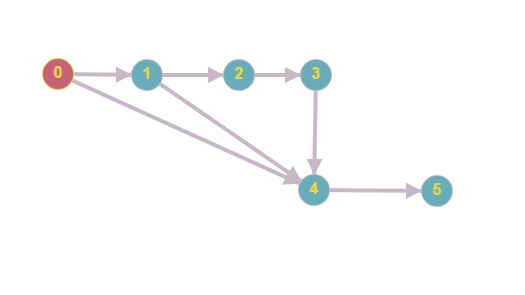
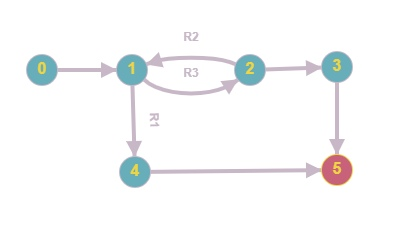
новые графы исходя из новой разметки кода + исправление маршрутов в отчёте

Changed region(s): [[0.0609, 0.1244, 0.9137, 0.84]]

diff --git a/Docs/UT_Delete_CGroup/REPORT.md b/Docs/UT_Delete_CGroup/REPORT.md
@@ -4,11 +4,11 @@
 ![alt text](GRAPH.PNG "Управляющий граф")
 # Маршруты на основании управляющего графа.
 
-R1 = 0 - 1 - 2 - 6 - 7
+R1 = 0 - 1 - 4 - 5 
 
-R2 = 0 - 1 - 2 - 3 - 6 - 7 
+R2 = 0 - 1 - 2 - 1 - 4 - 5 
 
-R3 = 0 - 1 - 2 - 3 - 4 - 5 - 7   
+R3 = 0 - 1 - 2 - 3 - 5    
 
 # Тестовые сценарии
 |Регион|Тест ID|Идея теста|Предварительное условие|Входные параметры|Ожидаемый результат|
